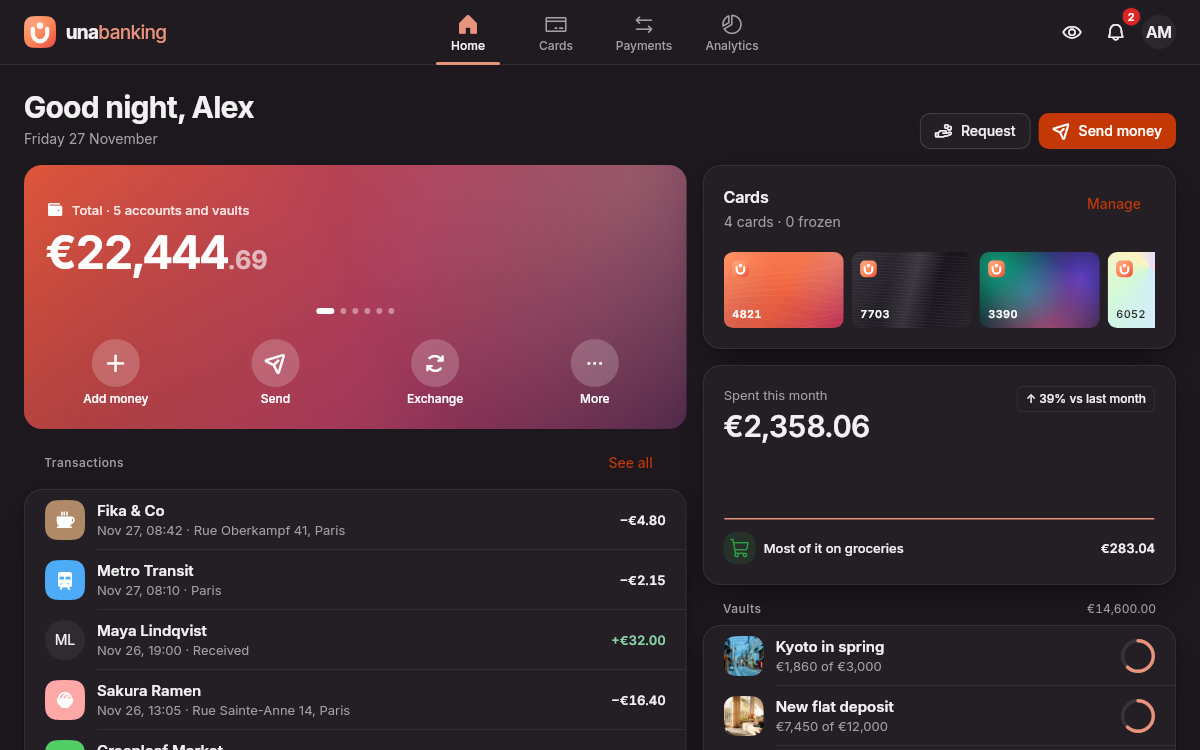
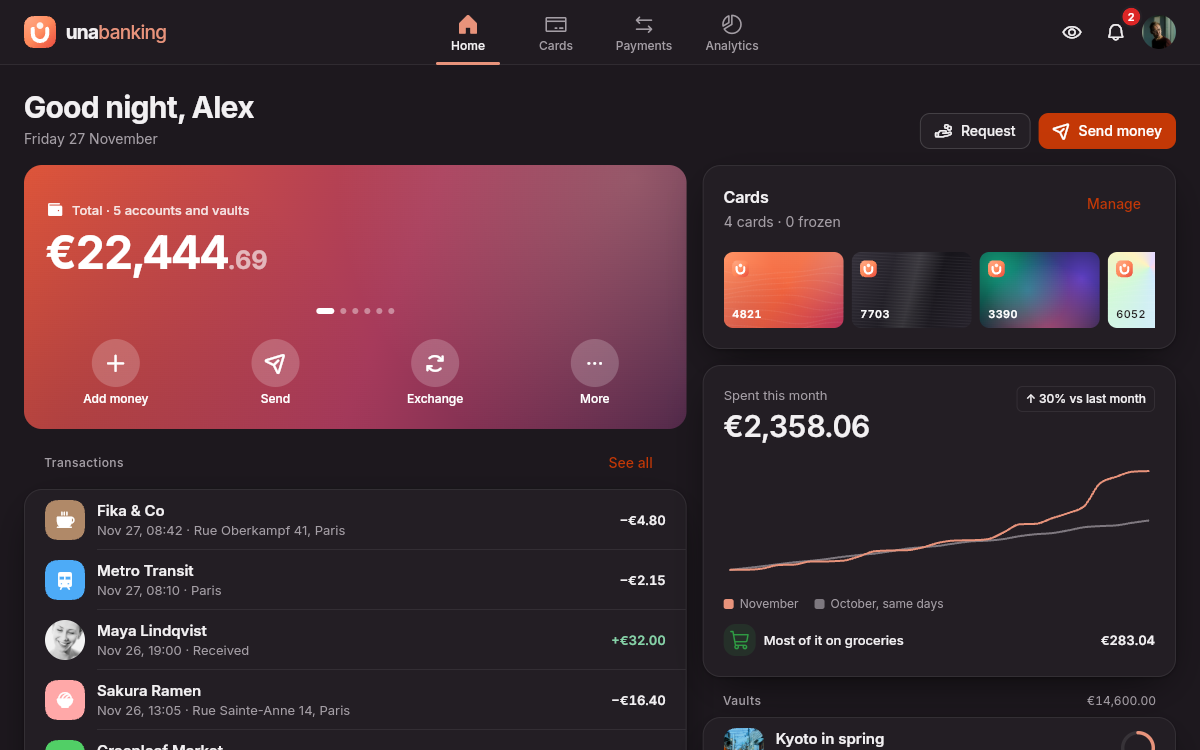
Home charts this month's spending against last month's; screenshots taken in real time.
The Spent this month card was a figure over a flat line: it is now a line
chart of the month's cumulative spending beside last month's to the same
day, its range fitted to the two (rent lifts both on the 1st), with a
legend. The README's screenshots are captured over the DevTools protocol
after a real wait (tool/screenshot.py): virtual time had caught the chart
at the first frame of its entrance and the portraits behind their fade.
una stays at a872a250.

diff --git a/lib/screens/home_screen.dart b/lib/screens/home_screen.dart
@@ -1,3 +1,5 @@
+import 'dart:math' as math;
+
 import 'package:flutter/widgets.dart';
 import 'package:una/una.dart';
 import 'package:una_banking/data.dart';
@@ -414,14 +416,31 @@ class SpendingInsight extends StatelessWidget {
     final scheme = theme.colorScheme;
     final session = context.bank;
     final spent = session.spentIn(today);
+    final daily = _cumulativeByDay(session);
+    final lastDaily = _lastMonthByDay();
     // Last month by the same day, so the comparison is fair mid-month.
-    final last = pastMonthsSpent.last * today.day / 30;
+    final last = lastDaily.last;
     final change = last == 0 ? 0.0 : (spent - last) / last * 100;
+    final lastMonth = DateFormat.MMMM().format(
+      DateTime(today.year, today.month - 1),
+    );
+    final hidden = session.hideBalances;
+    final series = [
+      ChartSeries(
+        label: DateFormat.MMMM().format(today),
+        values: daily,
+        color: scheme.tint,
+      ),
+      ChartSeries(
+        label: '$lastMonth, same days',
+        values: lastDaily,
+        color: scheme.mutedForeground.withValues(alpha: .7),
+      ),
+    ];
     final top = session
         .spendingByCategory(today)
         .where((entry) => !TxnCategory.fixed.contains(entry.$1))
         .firstOrNull;
-    final daily = _cumulativeByDay(session);
     return Card(
       onTap: () => context.goTo(Destination.analytics),
       semanticLabel: 'Spending this month',
@@ -459,14 +478,29 @@ class SpendingInsight extends StatelessWidget {
           ),
           const Gap.md(),
           SizedBox(
-            height: 64,
-            child: Sparkline(
-              values: daily,
-              color: scheme.tint,
-              valueFormatter: (value) => money(value, Currency.eur),
-              semanticLabel: 'Spending through the month',
+            height: 132,
+            child: LineChart(
+              labels: [
+                for (var day = 1; day <= daily.length; day++)
+                  DateFormat.MMMd().format(
+                    DateTime(today.year, today.month, day),
+                  ),
+              ],
+              series: series,
+              // Rent lands on the 1st, so both lines start high: fitting
+              // the range to them keeps the chart from being mostly air.
+              minValue: math.min(daily.first, lastDaily.first) * .9,
+              maxValue: math.max(daily.last, lastDaily.last) * 1.04,
+              showGrid: false,
+              showYAxis: false,
+              showXAxis: false,
+              valueFormatter: (value) =>
+                  hidden ? '€••••' : money(value, Currency.eur, decimals: 0),
+              semanticLabel: 'Spending through the month against last month',
             ),
           ),
+          const Gap.sm(),
+          ChartLegend(entries: series, alignment: WrapAlignment.start),
           if (top != null) ...[
             const Gap.md(),
             Row(
@@ -500,6 +534,24 @@ class SpendingInsight extends StatelessWidget {
     );
   }
 
+  /// What last month had cost by each day of it up to today's: the rent
+  /// on the 1st, the rest of [pastMonthsSpent]'s last month spread over
+  /// the days with a little of a real month's unevenness.
+  static List<double> _lastMonthByDay() {
+    final lastDays = DateTime(today.year, today.month, 0).day;
+    const rent = 1250.0;
+    final rest = pastMonthsSpent.last - rent;
+    final days = today.day < 2 ? 2 : today.day;
+    return [
+      for (var day = 1; day <= days; day++)
+        () {
+          final t = (day / lastDays).clamp(0, 1).toDouble();
+          final wobble = .02 * math.sin(day * 1.7) + .015 * math.sin(day * .6);
+          return rent + rest * (t + wobble * t).clamp(0, 1);
+        }(),
+    ];
+  }
+
   /// What the month has cost so far, day by day.
   static List<double> _cumulativeByDay(BankSession session) {
     final days = List<double>.filled(today.day, 0);
@@ -515,6 +567,7 @@ class SpendingInsight extends StatelessWidget {
     }
     var sum = 0.0;
     final out = [for (final day in days) sum += day];
+    // A line needs two points: on the 1st, the day starts from nothing.
     return out.length < 2 ? [0, ...out] : out;
   }
 }

diff --git a/tool/screenshot.py b/tool/screenshot.py
@@ -1,0 +1,39 @@
+"""Screenshots a page in headless Chrome after a real-time wait, over the
+DevTools protocol: usage cdp_shot.py URL OUT WIDTH HEIGHT SCALE WAIT."""
+import base64, json, subprocess, sys, time, urllib.request, tempfile
+
+import websocket
+
+url, out, width, height, scale, wait = sys.argv[1], sys.argv[2], int(sys.argv[3]), int(sys.argv[4]), float(sys.argv[5]), float(sys.argv[6])
+chrome = '/Applications/Google Chrome.app/Contents/MacOS/Google Chrome'
+profile = tempfile.mkdtemp()
+proc = subprocess.Popen([chrome, '--headless=new', '--remote-debugging-port=9333',
+    f'--user-data-dir={profile}', '--hide-scrollbars', 'about:blank'],
+    stdout=subprocess.DEVNULL, stderr=subprocess.DEVNULL)
+try:
+    for _ in range(50):
+        try:
+            targets = json.load(urllib.request.urlopen('http://127.0.0.1:9333/json'))
+            page = next(t for t in targets if t['type'] == 'page')
+            break
+        except Exception:
+            time.sleep(.2)
+    ws = websocket.create_connection(page['webSocketDebuggerUrl'])
+    n = [0]
+    def call(method, **params):
+        n[0] += 1
+        ws.send(json.dumps({'id': n[0], 'method': method, 'params': params}))
+        while True:
+            msg = json.loads(ws.recv())
+            if msg.get('id') == n[0]:
+                return msg.get('result', {})
+    call('Emulation.setDeviceMetricsOverride', width=width, height=height,
+         deviceScaleFactor=scale, mobile=width < 600)
+    call('Page.enable')
+    call('Page.navigate', url=url)
+    time.sleep(wait)
+    shot = call('Page.captureScreenshot', format='png')
+    open(out, 'wb').write(base64.b64decode(shot['data']))
+    print('saved', out)
+finally:
+    proc.kill()

diff --git a/README.md b/README.md
@@ -8,7 +8,7 @@ vaults — built entirely from the widgets of
 **Try it:** <https://vlidholt.github.io/una_banking/>
 
 <p>
-  <img src="docs/desktop.png" alt="Una Banking on a desktop: the total balance over a coral gradient, the latest transactions, cards, this month's spending and savings vaults" width="72%">
+  <img src="docs/desktop.png" alt="Una Banking on a desktop: the total balance over a coral gradient, the latest transactions, cards, this month's spending charted against last month's, and savings vaults" width="72%">
   <img src="docs/phone.jpg" alt="Una Banking on a phone: the everyday card in coral, with freeze, details, PIN and wallet actions and its monthly limit" width="24%">
 </p>
 
@@ -24,8 +24,8 @@ light.
 
 - **Home** — everything you hold, then each account in its currency,
   swiped through on the balance; Add money, Send, Exchange and More; the
-  latest transactions; this month's spending against last month's; cards
-  and savings vaults.
+  latest transactions; this month's spending charted day by day against
+  last month's to the same day; cards and savings vaults.
 - **Cards** — physical, metal, virtual and single-use cards drawn in code,
   each with its own design and the app's own (fictional) network. Freeze
   one and it frosts over; show its number, expiry and security code and

diff --git a/CLAUDE.md b/CLAUDE.md
@@ -83,8 +83,17 @@ are the sibling apps whose setup this one copies.
 
 ## Screenshots
 
-`docs/desktop.png` is headless Chrome at 1200 × 750 on a local build
-(`--headless=new --virtual-time-budget=90000
---run-all-compositor-stages-before-draw`); headless Chrome will not lay
-out narrower than about 500, so `docs/phone.jpg` is the phone layout at
-500 × 1000 (`?tab=cards`), scaled down.
+`tool/screenshot.py URL OUT WIDTH HEIGHT SCALE WAIT` drives headless Chrome
+over the DevTools protocol (needs `pip install websocket-client`) and
+waits in *real* time before it captures. `--screenshot` with
+`--virtual-time-budget` does not do: virtual time leaves charts at the
+first frame of their entrance and portraits behind `Avatar`'s fade, and
+headless Chrome will not lay a window out narrower than about 500. On a
+local build (`python3 -m http.server --directory build/web`):
+
+```bash
+python3 tool/screenshot.py http://localhost:8793/ docs/desktop.png 1200 750 1 12
+python3 tool/screenshot.py "http://localhost:8793/?tab=cards" /tmp/phone.png 390 844 2 12
+```
+
+and `docs/phone.jpg` is the second saved as a JPEG.
